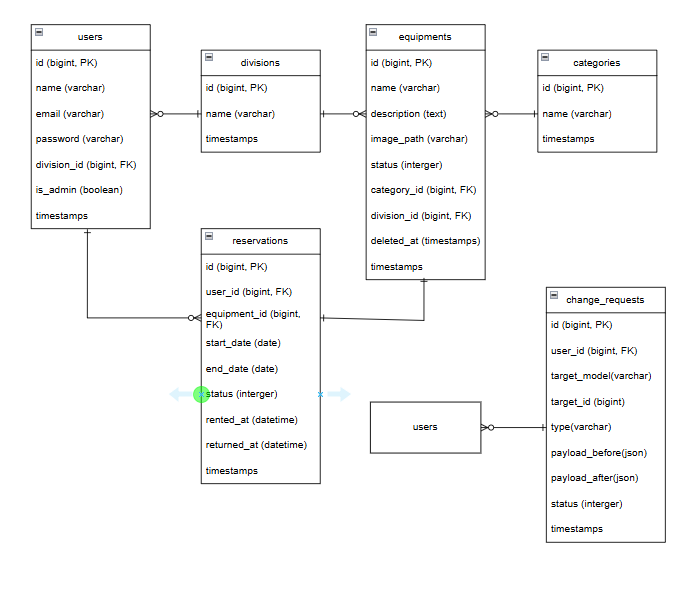
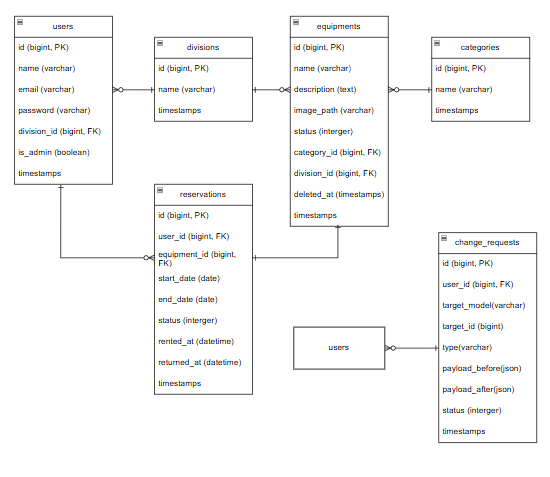
README.mdのクローンURLを更新し、ER図のサイズを調整

Changed region(s): [[0.0309, 0.0294, 0.9891, 0.8512], [0.5255, 0.4696, 0.9891, 0.9392]]

diff --git a/README.md b/README.md
@@ -79,14 +79,14 @@
 ## 5. ER図
 
 ![EquipHub ER図 Ver.2.0](./docs/er-diagram-v2.png)
-
+![alt text](image.png)
 ---
 
 ## 6. 環境構築・起動方法
 
 1.  リポジトリをクローン
     ```bash
-    git clone https://github.com/あなたのユーザー名/equip-hub.git
+    git clone https://github.com/miharuaraki0131/equip-hub.git
     cd equip-hub
     ```
 2.  `.env`ファイルの準備
